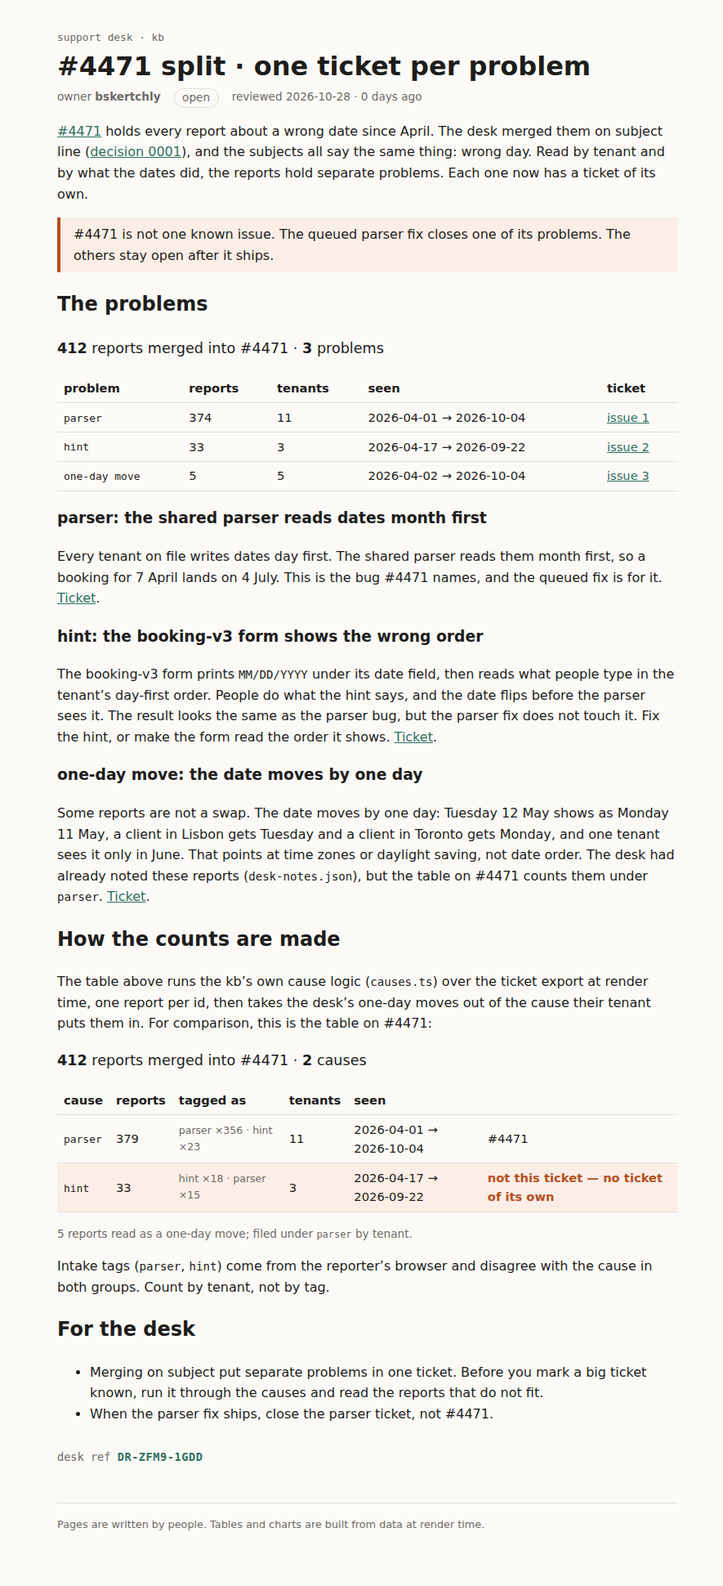
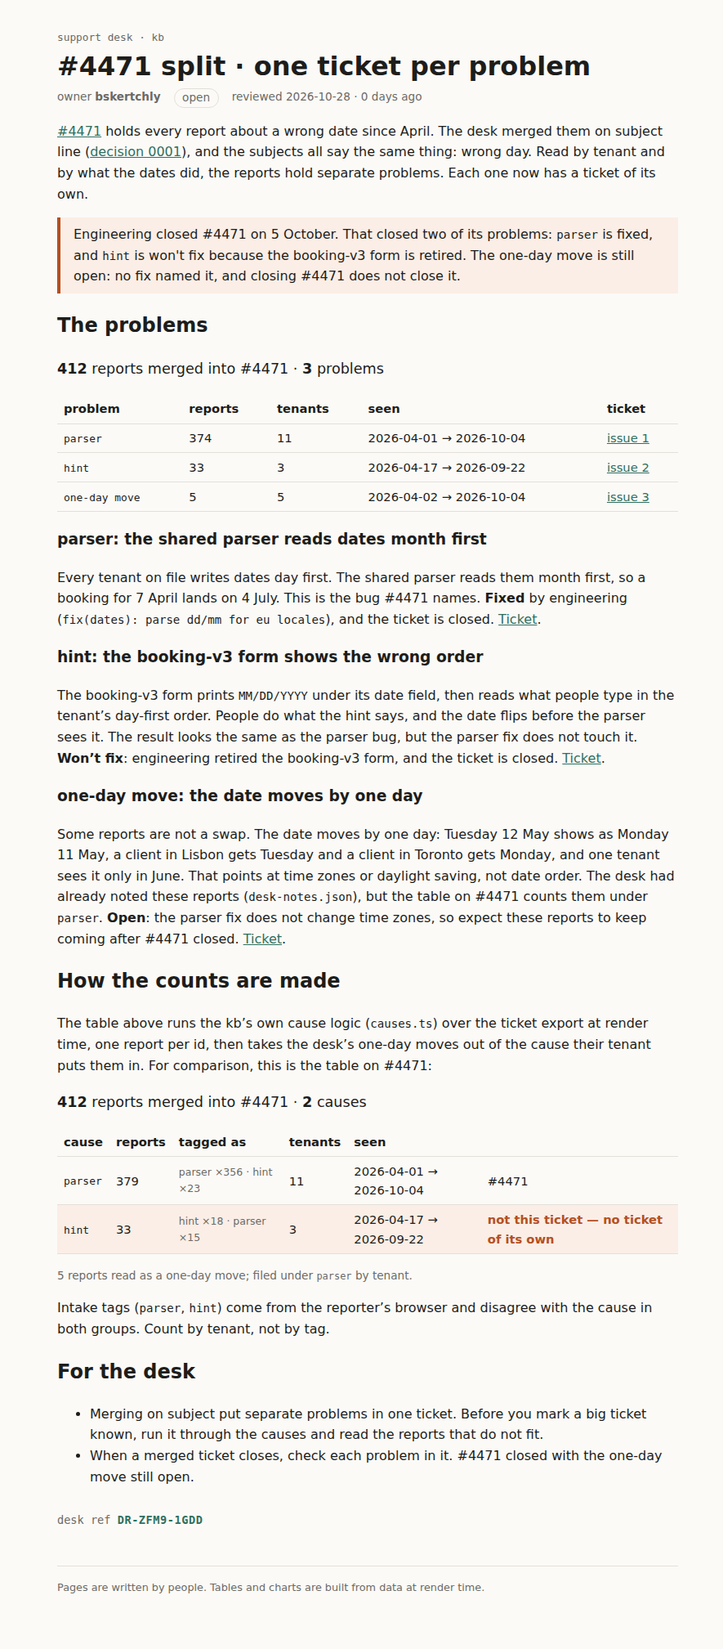
docs(kb): record engineering outcome for #4471 problems

diff --git a/rendered/site/kb/incidents/4471-split.html b/rendered/site/kb/incidents/4471-split.html
@@ -6,11 +6,11 @@
 		<link href="../../_app/immutable/chunks/B2Ul7l_u.js" rel="modulepreload">
 		<link href="../../_app/immutable/chunks/BCPXOG7W.js" rel="modulepreload">
 		<link href="../../_app/immutable/chunks/Dh1V97Jm.js" rel="modulepreload">
-		<link href="../../_app/immutable/entry/app.BBf1GEd5.js" rel="modulepreload">
+		<link href="../../_app/immutable/entry/app.DAjpkfKS.js" rel="modulepreload">
 		<link href="../../_app/immutable/nodes/0.C9KfiiPz.js" rel="modulepreload">
 		<link href="../../_app/immutable/chunks/DK3Fl9T5.js" rel="modulepreload">
-		<link href="../../_app/immutable/nodes/5.CE2hy9mU.js" rel="modulepreload">
-		<link href="../../_app/immutable/chunks/DABsAX7m.js" rel="modulepreload">
+		<link href="../../_app/immutable/nodes/5.CG27A_ap.js" rel="modulepreload">
+		<link href="../../_app/immutable/chunks/C3MLfSKG.js" rel="modulepreload">
 		<link href="../../_app/immutable/chunks/BTPwLomz.js" rel="modulepreload">
 		<link href="../../_app/immutable/chunks/CVzl_KNK.js" rel="modulepreload">
 		<link href="../../_app/immutable/chunks/BIy4WKJS.js" rel="modulepreload">
@@ -22,32 +22,34 @@
   <body><!--[--><!--[--><!--[0--><!--[--><!--[--><!--[-1--><!--[--><div class="kb svelte-e2jw2j"><header><a class="crumb svelte-e2jw2j" href="/kb">support desk · kb</a> <h1 class="svelte-e2jw2j">#4471 split · one ticket per problem</h1> <p class="meta svelte-e2jw2j"><span>owner <b>bskertchly</b></span> <span class="status open svelte-e2jw2j">open</span> <span class="svelte-e2jw2j">reviewed 2026-10-28 · 0 days ago</span></p></header> <!--[-1--><!--]--> <main><p><a href="/kb/incidents/4471">#4471</a> holds every report about a wrong date since April. The desk merged them on
 subject line (<a href="/kb/decisions/0001-dedupe-by-subject">decision 0001</a>), and the subjects all say the
 same thing: wrong day. Read by tenant and by what the dates did, the reports hold separate problems.
-Each one now has a ticket of its own.</p> <aside class="warn svelte-17bri61"><!---->#4471 is not one known issue. The queued parser fix closes one of its problems. The others
-stay open after it ships.<!----></aside><!----> <h2>The problems</h2> <p class="sum svelte-1op6c6"><strong>412</strong> reports merged into #4471 · <strong>3</strong> problems</p> <table><thead><tr><th>problem</th><th>reports</th><th>tenants</th><th>seen</th><th>ticket</th></tr></thead><tbody><!--[--><tr><td><code>parser</code></td><td>374</td><td>11</td><td>2026-04-01 → 2026-10-04</td><td><!--[0--><a href="https://github.com/bskertchly/mega-s01e03-what-it-shows/issues/1">issue 1</a><!--]--></td></tr><tr><td><code>hint</code></td><td>33</td><td>3</td><td>2026-04-17 → 2026-09-22</td><td><!--[0--><a href="https://github.com/bskertchly/mega-s01e03-what-it-shows/issues/2">issue 2</a><!--]--></td></tr><tr><td><code>one-day move</code></td><td>5</td><td>5</td><td>2026-04-02 → 2026-10-04</td><td><!--[0--><a href="https://github.com/bskertchly/mega-s01e03-what-it-shows/issues/3">issue 3</a><!--]--></td></tr><!--]--></tbody></table><!----> <h3>parser: the shared parser reads dates month first</h3> <p>Every tenant on file writes dates day first. The shared parser reads them month first, so a booking
-for 7 April lands on 4 July. This is the bug #4471 names, and the queued fix is for it. <a href="https://github.com/bskertchly/mega-s01e03-what-it-shows/issues/1" rel="nofollow">Ticket</a>.</p> <h3>hint: the booking-v3 form shows the wrong order</h3> <p>The booking-v3 form prints <code>MM/DD/YYYY</code> under its date field, then reads what people type in the
+Each one now has a ticket of its own.</p> <aside class="warn svelte-17bri61"><!---->Engineering closed #4471 on 5 October. That closed two of its problems: <code>parser</code> is fixed, and <code>hint</code> is won't fix because the booking-v3 form is retired. The one-day move is still open: no fix
+named it, and closing #4471 does not close it.<!----></aside><!----> <h2>The problems</h2> <p class="sum svelte-1op6c6"><strong>412</strong> reports merged into #4471 · <strong>3</strong> problems</p> <table><thead><tr><th>problem</th><th>reports</th><th>tenants</th><th>seen</th><th>ticket</th></tr></thead><tbody><!--[--><tr><td><code>parser</code></td><td>374</td><td>11</td><td>2026-04-01 → 2026-10-04</td><td><!--[0--><a href="https://github.com/bskertchly/mega-s01e03-what-it-shows/issues/1">issue 1</a><!--]--></td></tr><tr><td><code>hint</code></td><td>33</td><td>3</td><td>2026-04-17 → 2026-09-22</td><td><!--[0--><a href="https://github.com/bskertchly/mega-s01e03-what-it-shows/issues/2">issue 2</a><!--]--></td></tr><tr><td><code>one-day move</code></td><td>5</td><td>5</td><td>2026-04-02 → 2026-10-04</td><td><!--[0--><a href="https://github.com/bskertchly/mega-s01e03-what-it-shows/issues/3">issue 3</a><!--]--></td></tr><!--]--></tbody></table><!----> <h3>parser: the shared parser reads dates month first</h3> <p>Every tenant on file writes dates day first. The shared parser reads them month first, so a booking
+for 7 April lands on 4 July. This is the bug #4471 names. <strong>Fixed</strong> by engineering
+(<code>fix(dates): parse dd/mm for eu locales</code>), and the ticket is closed. <a href="https://github.com/bskertchly/mega-s01e03-what-it-shows/issues/1" rel="nofollow">Ticket</a>.</p> <h3>hint: the booking-v3 form shows the wrong order</h3> <p>The booking-v3 form prints <code>MM/DD/YYYY</code> under its date field, then reads what people type in the
 tenant’s day-first order. People do what the hint says, and the date flips before the parser sees
-it. The result looks the same as the parser bug, but the parser fix does not touch it. Fix the hint,
-or make the form read the order it shows. <a href="https://github.com/bskertchly/mega-s01e03-what-it-shows/issues/2" rel="nofollow">Ticket</a>.</p> <h3>one-day move: the date moves by one day</h3> <p>Some reports are not a swap. The date moves by one day: Tuesday 12 May shows as Monday 11 May, a
+it. The result looks the same as the parser bug, but the parser fix does not touch it. <strong>Won’t fix</strong>:
+engineering retired the booking-v3 form, and the ticket is closed. <a href="https://github.com/bskertchly/mega-s01e03-what-it-shows/issues/2" rel="nofollow">Ticket</a>.</p> <h3>one-day move: the date moves by one day</h3> <p>Some reports are not a swap. The date moves by one day: Tuesday 12 May shows as Monday 11 May, a
 client in Lisbon gets Tuesday and a client in Toronto gets Monday, and one tenant sees it only in
 June. That points at time zones or daylight saving, not date order. The desk had already noted these
-reports (<code>desk-notes.json</code>), but the table on #4471 counts them under <code>parser</code>. <a href="https://github.com/bskertchly/mega-s01e03-what-it-shows/issues/3" rel="nofollow">Ticket</a>.</p> <h2>How the counts are made</h2> <p>The table above runs the kb’s own cause logic (<code>causes.ts</code>) over the ticket export at render time,
+reports (<code>desk-notes.json</code>), but the table on #4471 counts them under <code>parser</code>. <strong>Open</strong>: the parser fix does not
+change time zones, so expect these reports to keep coming after #4471 closed. <a href="https://github.com/bskertchly/mega-s01e03-what-it-shows/issues/3" rel="nofollow">Ticket</a>.</p> <h2>How the counts are made</h2> <p>The table above runs the kb’s own cause logic (<code>causes.ts</code>) over the ticket export at render time,
 one report per id, then takes the desk’s one-day moves out of the cause their tenant puts them in.
 For comparison, this is the table on #4471:</p> <p class="sum svelte-12oyimm"><strong>412</strong> reports merged into #4471 · <strong>2</strong> causes</p> <table><thead><tr><th>cause</th><th>reports</th><th>tagged as</th><th>tenants</th><th>seen</th><th></th></tr></thead><tbody><!--[--><tr class="svelte-12oyimm"><td class="svelte-12oyimm"><code>parser</code></td><td class="svelte-12oyimm">379</td><td class="tags svelte-12oyimm">parser ×356 · hint ×23</td><td class="svelte-12oyimm">11</td><td class="svelte-12oyimm">2026-04-01 → 2026-10-04</td><td class="svelte-12oyimm">#4471</td></tr><tr class="svelte-12oyimm wrong"><td class="svelte-12oyimm"><code>hint</code></td><td class="svelte-12oyimm">33</td><td class="tags svelte-12oyimm">hint ×18 · parser ×15</td><td class="svelte-12oyimm">3</td><td class="svelte-12oyimm">2026-04-17 → 2026-09-22</td><td class="svelte-12oyimm">not this ticket — no ticket of its own</td></tr><!--]--></tbody></table> <!--[--><!--[0--><p class="note svelte-12oyimm">5 reports read as a one-day move; filed under <code>parser</code> by tenant.</p><!--]--><!--[-1--><!--]--><!--]--><!----> <p>Intake tags (<code>parser</code>, <code>hint</code>) come from the reporter’s browser and disagree with the cause in
 both groups. Count by tenant, not by tag.</p> <h2>For the desk</h2> <ul><li>Merging on subject put separate problems in one ticket. Before you mark a big ticket known, run it
-through the causes and read the reports that do not fit.</li> <li>When the parser fix ships, close the parser ticket, not #4471.</li></ul> <!--[0--><p class="stamp svelte-1280m42">desk ref <b class="svelte-1280m42">DR-ZFM9-1GDD</b></p><!--]--><!----><!----></main> <footer class="svelte-e2jw2j">Pages are written by people. Tables and charts are built from data at render time.</footer></div><!--]--><!--]--><!--]--><!----><!--]--><!--]--><!--]--><!----> <!--[-1--><!--]--><!--]-->
+through the causes and read the reports that do not fit.</li> <li>When a merged ticket closes, check each problem in it. #4471 closed with the one-day move still open.</li></ul> <!--[0--><p class="stamp svelte-1280m42">desk ref <b class="svelte-1280m42">DR-ZFM9-1GDD</b></p><!--]--><!----><!----></main> <footer class="svelte-e2jw2j">Pages are written by people. Tables and charts are built from data at render time.</footer></div><!--]--><!--]--><!--]--><!----><!--]--><!--]--><!--]--><!----> <!--[-1--><!--]--><!--]-->
 			
 			<script>
 				{
-					__sveltekit_59srki = {
+					__sveltekit_177imj5 = {
 						base: new URL("../..", location).pathname.slice(0, -1),
-						version: "1793227052920"
+						version: "1793227353569"
 					};
 
 					const element = document.currentScript.parentElement;
 
 					import("../../_app/immutable/entry/start.CH5w6lId.js").then(async (kit) => {
-						kit.init(__sveltekit_59srki);
-						const app = await import("../../_app/immutable/entry/app.BBf1GEd5.js");
+						kit.init(__sveltekit_177imj5);
+						const app = await import("../../_app/immutable/entry/app.DAjpkfKS.js");
 						kit.start(app, element, {
 							node_ids: [0, 5],
 							data: [null,null],

diff --git a/rendered/site/_app/immutable/chunks/C3MLfSKG.js b/rendered/site/_app/immutable/chunks/C3MLfSKG.js
@@ -1,0 +1,18 @@
+import{t as e}from"./DK3Fl9T5.js";import{E as t,F as n,H as r,I as i,K as a,L as o,N as s,O as c,R as l,S as u,T as d,U as f,W as p,_ as m,c as h,h as g,k as _,q as v,r as y,t as b,w as x}from"./BCPXOG7W.js";import{t as S}from"./BTPwLomz.js";import{n as C,r as w,t as T}from"./CVzl_KNK.js";import{a as E,l as D,r as O,t as k}from"./BIy4WKJS.js";var A=t(`<a> </a>`),j=t(`<tr><td><code> </code></td><td> </td><td> </td><td> </td><td><!></td></tr>`),M=t(`<p class="sum svelte-1op6c6"><strong> </strong> <strong> </strong> problems</p> <table><thead><tr><th>problem</th><th>reports</th><th>tenants</th><th>seen</th><th>ticket</th></tr></thead><tbody></tbody></table>`,1);function N(e,t){p(t,!0);let d=r(()=>D(w).filter(e=>e.mergedInto===t.ticket)),y=e=>C.oneDayMove.includes(e.id),b=r(()=>[...E(_(d).filter(e=>!y(e)),O).map(e=>({problem:e.cause,reports:e.reports})),{problem:`one-day move`,reports:_(d).filter(y)}].filter(e=>e.reports.length).map(e=>{let t=e.reports.map(e=>e.receivedAt.slice(0,10)).sort();return{...e,tenants:new Set(e.reports.map(e=>e.tenant)).size,seen:`${t[0]} → ${t[t.length-1]}`}}));var S=M(),T=i(S),k=n(T),N=o(k,!0),P=l(k),F=l(P),I=o(F,!0);a(),v(T);var L=l(T,2),R=l(n(L));g(R,21,()=>_(b),e=>e.problem,(e,r)=>{var i=j(),a=n(i),d=n(a),f=o(d,!0);v(a);var p=l(a),g=o(p,!0),y=l(p),b=o(y,!0),S=l(y),C=o(S,!0),w=l(S),T=n(w),E=e=>{var n=A(),i=o(n,!0);s(e=>{h(n,`href`,t.tickets[_(r).problem]),u(i,e)},[()=>t.tickets[_(r).problem].replace(/.*\/issues\//,`issue `)]),x(e,n)},D=e=>{var t=c(`none yet`);x(e,t)};m(T,e=>{t.tickets[_(r).problem]?e(E):e(D,-1)}),v(w),v(i),s(()=>{u(f,_(r).problem),u(g,_(r).reports.length),u(b,_(r).tenants),u(C,_(r).seen)}),x(e,i)}),v(R),v(L),s(()=>{u(N,_(d).length),u(P,` reports merged into #${t.ticket??``} · `),u(I,_(b).length)}),x(e,S),f()}var P=`0123456789ABCDEFGHJKMNPQRSTVWXYZ`;function F(e,t){let n=t>>>0;for(let t=0;t<e.length;t++)n^=e.charCodeAt(t),n=Math.imul(n,16777619)>>>0;return n}function I(e){let t=e.trim(),n=F(t,2166136261),r=F(t,2654435769),i=BigInt(n)<<8n|BigInt(r&255),a=``;for(let e=0;e<8;e++)a=P[Number(i&31n)]+a,i>>=5n;return`DR-${a.slice(0,4)}-${a.slice(4)}`}var L=t(`<p class="stamp svelte-1280m42">desk ref <b class="svelte-1280m42"> </b></p>`),R=t(`<p class="stamp missing svelte-1280m42">no desk ref: this page isn't signed (no <code>signature</code> in its frontmatter)</p>`);function z(e,t){p(t,!0);let a=r(()=>t.signature?I(t.signature):null);var c=d(),h=i(c),g=e=>{var t=L(),r=l(n(t)),i=o(r,!0);v(t),s(()=>u(i,_(a))),x(e,t)},y=e=>{var t=R();x(e,t)};m(h,e=>{_(a)?e(g):e(y,-1)}),x(e,c),f()}var B=e({default:()=>X,metadata:()=>V}),V={layout:`runbook`,title:`#4471 split · one ticket per problem`,owner:`bskertchly`,status:`open`,reviewed:`2026-10-28T00:00:00.000Z`,signature:`v1.eyJzdWIiOiIyNTM4IiwiYXVkIjoiY2hhbGxlbmdlOndoYXQtaXQtc2hvd3MiLCJpYXQiOjE3OTMyMjY2NzUsImV4cCI6MTc5MzMxMzA3NX0.T4rrA3RWJwC3wXyRxoJ6-tDpb1C0ogL_BNji3M-BYj0`},{layout:H,title:U,owner:W,status:G,reviewed:K,signature:q}=V,J=t(`Engineering closed #4471 on 5 October. That closed two of its problems: <code>parser</code> is fixed, and <code>hint</code> is won't fix because the booking-v3 form is retired. The one-day move is still open: no fix
+named it, and closing #4471 does not close it.`,1),Y=t(`<p><a href="/kb/incidents/4471">#4471</a> holds every report about a wrong date since April. The desk merged them on
+subject line (<a href="/kb/decisions/0001-dedupe-by-subject">decision 0001</a>), and the subjects all say the
+same thing: wrong day. Read by tenant and by what the dates did, the reports hold separate problems.
+Each one now has a ticket of its own.</p> <!> <h2>The problems</h2> <!> <h3>parser: the shared parser reads dates month first</h3> <p>Every tenant on file writes dates day first. The shared parser reads them month first, so a booking
+for 7 April lands on 4 July. This is the bug #4471 names. <strong>Fixed</strong> by engineering
+(<code>fix(dates): parse dd/mm for eu locales</code>), and the ticket is closed. <a href="https://github.com/bskertchly/mega-s01e03-what-it-shows/issues/1" rel="nofollow">Ticket</a>.</p> <h3>hint: the booking-v3 form shows the wrong order</h3> <p>The booking-v3 form prints <code>MM/DD/YYYY</code> under its date field, then reads what people type in the
+tenant’s day-first order. People do what the hint says, and the date flips before the parser sees
+it. The result looks the same as the parser bug, but the parser fix does not touch it. <strong>Won’t fix</strong>:
+engineering retired the booking-v3 form, and the ticket is closed. <a href="https://github.com/bskertchly/mega-s01e03-what-it-shows/issues/2" rel="nofollow">Ticket</a>.</p> <h3>one-day move: the date moves by one day</h3> <p>Some reports are not a swap. The date moves by one day: Tuesday 12 May shows as Monday 11 May, a
+client in Lisbon gets Tuesday and a client in Toronto gets Monday, and one tenant sees it only in
+June. That points at time zones or daylight saving, not date order. The desk had already noted these
+reports (<code>desk-notes.json</code>), but the table on #4471 counts them under <code>parser</code>. <strong>Open</strong>: the parser fix does not
+change time zones, so expect these reports to keep coming after #4471 closed. <a href="https://github.com/bskertchly/mega-s01e03-what-it-shows/issues/3" rel="nofollow">Ticket</a>.</p> <h2>How the counts are made</h2> <p>The table above runs the kb’s own cause logic (<code>causes.ts</code>) over the ticket export at render time,
+one report per id, then takes the desk’s one-day moves out of the cause their tenant puts them in.
+For comparison, this is the table on #4471:</p> <!> <p>Intake tags (<code>parser</code>, <code>hint</code>) come from the reporter’s browser and disagree with the cause in
+both groups. Count by tenant, not by tag.</p> <h2>For the desk</h2> <ul><li>Merging on subject put separate problems in one ticket. Before you mark a big ticket known, run it
+through the causes and read the reports that do not fit.</li> <li>When a merged ticket closes, check each problem in it. #4471 closed with the one-day move still open.</li></ul> <!>`,1);function X(e,t){let n=b(t,[`children`,`$$slots`,`$$events`,`$$legacy`]);S(e,y(()=>n,()=>V,{children:(e,t)=>{var n=Y(),r=l(i(n),2);k(r,{kind:`warn`,children:(e,t)=>{a();var n=J();a(4),x(e,n)},$$slots:{default:!0}});var o=l(r,4);N(o,{ticket:4471,tickets:{parser:`https://github.com/bskertchly/mega-s01e03-what-it-shows/issues/1`,hint:`https://github.com/bskertchly/mega-s01e03-what-it-shows/issues/2`,"one-day move":`https://github.com/bskertchly/mega-s01e03-what-it-shows/issues/3`}});var s=l(o,18);T(s,{ticket:4471}),z(l(s,8),{get signature(){return q}}),x(e,n)},$$slots:{default:!0}}))}export{X as n,B as t};

diff --git a/rendered/site/_app/immutable/nodes/2.CzbQZmu5.js b/rendered/site/_app/immutable/nodes/2.CzbQZmu5.js
@@ -1,0 +1,2 @@
+import{E as e,F as t,I as n,K as r,L as i,N as a,R as o,S as s,U as c,W as l,c as u,d,h as f,i as p,k as m,q as h,r as g,t as _,w as v}from"../chunks/BCPXOG7W.js";import{n as y,r as b,t as x}from"../chunks/BTPwLomz.js";import{t as S}from"../chunks/YX22L_Ud.js";import{t as C}from"../chunks/DQEJtU6k.js";import{t as w}from"../chunks/C3MLfSKG.js";import{t as T}from"../chunks/BGqJVSDw.js";var E=e(`<tr><td><a> </a></td><td> </td><td> </td><td> </td></tr>`),D=e(`<table><thead><tr><th>page</th><th>owner</th><th>status</th><th>reviewed</th></tr></thead><tbody></tbody></table>`);function O(e,n){l(n,!1);let r=Object.entries(Object.assign({"/src/routes/kb/decisions/0001-dedupe-by-subject/+page.svx":S,"/src/routes/kb/incidents/4471/+page.svx":C,"/src/routes/kb/incidents/4471-split/+page.svx":w,"/src/routes/kb/triage/dedupe/+page.svx":T})).map(([e,t])=>({href:e.replace(`/src/routes`,``).replace(`/+page.svx`,``),...t.metadata})).sort((e,t)=>e.href.localeCompare(t.href));p();var g=D(),_=o(t(g));f(_,5,()=>r,e=>e.href,(e,n)=>{var r=E(),c=t(r),l=t(c),f=i(l,!0);h(c);var p=o(c),g=i(p,!0),_=o(p),x=i(_,!0),S=o(_);let C;var w=i(S,!0);h(r),a((e,t)=>{u(l,`href`,m(n).href),s(f,m(n).title),s(g,m(n).owner),s(x,m(n).status),C=d(S,1,`svelte-tbc1ha`,null,C,{stale:e}),s(w,t)},[()=>y(m(n).reviewed)>180,()=>b(m(n).reviewed)]),v(e,r)}),h(_),h(g),v(e,g),c()}var k={layout:`runbook`,title:`Support knowledge base`,owner:`support desk`,status:`living`,reviewed:`2026-09-28T00:00:00.000Z`},{layout:A,title:j,owner:M,status:N,reviewed:P}=k,F=e(`<p>What the support desk knows, kept next to the code that knows it. One desk, every product: <code>sched-prod</code> (calendar invites for about 300k people) and the rest. When something breaks, the reports land here first.</p> <p>Start with <a href="/kb/triage/dedupe">triage</a> if you are new on the desk.</p> <h2>Pages</h2> <!> <h2>Writing a page</h2> <p>Keep the words here and the logic in <code>src/lib</code>. A number that can be computed should be
+computed by a component, not typed into a paragraph.</p>`,1);function I(e,t){let i=_(t,[`children`,`$$slots`,`$$events`,`$$legacy`]);x(e,g(()=>i,()=>k,{children:(e,t)=>{var i=F();O(o(n(i),6),{}),r(4),v(e,i)},$$slots:{default:!0}}))}export{I as component};

diff --git a/rendered/site/kb.html b/rendered/site/kb.html
@@ -6,16 +6,16 @@
 		<link href="./_app/immutable/chunks/B2Ul7l_u.js" rel="modulepreload">
 		<link href="./_app/immutable/chunks/BCPXOG7W.js" rel="modulepreload">
 		<link href="./_app/immutable/chunks/Dh1V97Jm.js" rel="modulepreload">
-		<link href="./_app/immutable/entry/app.BBf1GEd5.js" rel="modulepreload">
+		<link href="./_app/immutable/entry/app.DAjpkfKS.js" rel="modulepreload">
 		<link href="./_app/immutable/nodes/0.C9KfiiPz.js" rel="modulepreload">
 		<link href="./_app/immutable/chunks/DK3Fl9T5.js" rel="modulepreload">
-		<link href="./_app/immutable/nodes/2.yAOiivUN.js" rel="modulepreload">
+		<link href="./_app/immutable/nodes/2.CzbQZmu5.js" rel="modulepreload">
 		<link href="./_app/immutable/chunks/BTPwLomz.js" rel="modulepreload">
 		<link href="./_app/immutable/chunks/YX22L_Ud.js" rel="modulepreload">
 		<link href="./_app/immutable/chunks/DQEJtU6k.js" rel="modulepreload">
 		<link href="./_app/immutable/chunks/CVzl_KNK.js" rel="modulepreload">
 		<link href="./_app/immutable/chunks/BIy4WKJS.js" rel="modulepreload">
-		<link href="./_app/immutable/chunks/DABsAX7m.js" rel="modulepreload">
+		<link href="./_app/immutable/chunks/C3MLfSKG.js" rel="modulepreload">
 		<link href="./_app/immutable/chunks/BGqJVSDw.js" rel="modulepreload">
 		<!--e2jw2j--><!----><title>Support knowledge base · support kb</title>
 		<link href="./_app/immutable/assets/runbook.COyw0cbZ.css" rel="stylesheet">
@@ -30,16 +30,16 @@ computed by a component, not typed into a paragraph.</p><!----></main> <footer c
 			
 			<script>
 				{
-					__sveltekit_59srki = {
+					__sveltekit_177imj5 = {
 						base: new URL(".", location).pathname.slice(0, -1),
-						version: "1793227052920"
+						version: "1793227353569"
 					};
 
 					const element = document.currentScript.parentElement;
 
 					import("./_app/immutable/entry/start.CH5w6lId.js").then(async (kit) => {
-						kit.init(__sveltekit_59srki);
-						const app = await import("./_app/immutable/entry/app.BBf1GEd5.js");
+						kit.init(__sveltekit_177imj5);
+						const app = await import("./_app/immutable/entry/app.DAjpkfKS.js");
 						kit.start(app, element, {
 							node_ids: [0, 2],
 							data: [null,null],

diff --git a/rendered/site/_app/immutable/entry/app.DAjpkfKS.js b/rendered/site/_app/immutable/entry/app.DAjpkfKS.js
@@ -1,0 +1,2 @@
+const __vite__mapDeps=(i,m=__vite__mapDeps,d=(m.f||(m.f=["../nodes/0.C9KfiiPz.js","../chunks/DK3Fl9T5.js","../chunks/BCPXOG7W.js","../nodes/1.mOwa9YdW.js","../chunks/Dh1V97Jm.js","./payload.DSmR2FwN.js","../nodes/2.CzbQZmu5.js","../chunks/BTPwLomz.js","../assets/runbook.COyw0cbZ.css","../chunks/YX22L_Ud.js","../chunks/DQEJtU6k.js","../chunks/CVzl_KNK.js","../chunks/BIy4WKJS.js","../assets/Callout.AbLv9dM_.css","../assets/CauseTable.DuKfINX_.css","../assets/_page.BwRNheVv.css","../chunks/C3MLfSKG.js","../assets/_page.CgouBqEL.css","../chunks/BGqJVSDw.js","../assets/_page.DO6Yid7X.css","../assets/2.Bt0MwIZg.css","../nodes/3.DRxPfvn3.js","../nodes/4.Lxj3M29p.js","../nodes/5.CG27A_ap.js","../nodes/6.sFtxrtyV.js"])))=>i.map(i=>d[i]);
+import{t as e}from"../chunks/CRzLMJPS.js";var t={},n=[()=>e(()=>import(`../nodes/0.C9KfiiPz.js`),__vite__mapDeps([0,1,2]),import.meta.url),()=>e(()=>import(`../nodes/1.mOwa9YdW.js`),__vite__mapDeps([3,2,4,5]),import.meta.url),()=>e(()=>import(`../nodes/2.CzbQZmu5.js`),__vite__mapDeps([6,2,7,8,9,1,10,11,12,13,14,15,16,17,18,19,20]),import.meta.url),()=>e(()=>import(`../nodes/3.DRxPfvn3.js`),__vite__mapDeps([21,9,1,2,7,8]),import.meta.url),()=>e(()=>import(`../nodes/4.Lxj3M29p.js`),__vite__mapDeps([22,10,1,2,7,8,11,12,13,14,15]),import.meta.url),()=>e(()=>import(`../nodes/5.CG27A_ap.js`),__vite__mapDeps([23,16,1,2,7,8,11,12,13,14,17]),import.meta.url),()=>e(()=>import(`../nodes/6.sFtxrtyV.js`),__vite__mapDeps([24,18,1,2,7,8,12,13,19]),import.meta.url)],r=[],i={"/kb":[2],"/kb/decisions/0001-dedupe-by-subject":[3],"/kb/incidents/4471-split":[5],"/kb/incidents/4471":[4],"/kb/triage/dedupe":[6]},a={handleError:(({kind:e,error:t})=>{e===`unknown`&&console.error(t)}),reroute:(()=>{}),transport:{}},o=Object.fromEntries(Object.entries(a.transport).map(([e,t])=>[e,t.decode])),s=Object.fromEntries(Object.entries(a.transport).map(([e,t])=>[e,t.encode])),c=!1,l=(e,t)=>o[e](t),u=()=>e(()=>import(`../chunks/Bjy-W4x2.js`).then(e=>e.default),[],import.meta.url);export{l as decode,o as decoders,i as dictionary,s as encoders,u as get_error_template,c as hash,a as hooks,t as matchers,n as nodes,r as server_loads};

diff --git a/rendered/site/kb/decisions/0001-dedupe-by-subject.html b/rendered/site/kb/decisions/0001-dedupe-by-subject.html
@@ -6,7 +6,7 @@
 		<link href="../../_app/immutable/chunks/B2Ul7l_u.js" rel="modulepreload">
 		<link href="../../_app/immutable/chunks/BCPXOG7W.js" rel="modulepreload">
 		<link href="../../_app/immutable/chunks/Dh1V97Jm.js" rel="modulepreload">
-		<link href="../../_app/immutable/entry/app.BBf1GEd5.js" rel="modulepreload">
+		<link href="../../_app/immutable/entry/app.DAjpkfKS.js" rel="modulepreload">
 		<link href="../../_app/immutable/nodes/0.C9KfiiPz.js" rel="modulepreload">
 		<link href="../../_app/immutable/chunks/DK3Fl9T5.js" rel="modulepreload">
 		<link href="../../_app/immutable/nodes/3.DRxPfvn3.js" rel="modulepreload">
@@ -21,16 +21,16 @@ engineering merges them later.</li></ul><!----></main> <footer class="svelte-e2j
 			
 			<script>
 				{
-					__sveltekit_59srki = {
+					__sveltekit_177imj5 = {
 						base: new URL("../..", location).pathname.slice(0, -1),
-						version: "1793227052920"
+						version: "1793227353569"
 					};
 
 					const element = document.currentScript.parentElement;
 
 					import("../../_app/immutable/entry/start.CH5w6lId.js").then(async (kit) => {
-						kit.init(__sveltekit_59srki);
-						const app = await import("../../_app/immutable/entry/app.BBf1GEd5.js");
+						kit.init(__sveltekit_177imj5);
+						const app = await import("../../_app/immutable/entry/app.DAjpkfKS.js");
 						kit.start(app, element, {
 							node_ids: [0, 3],
 							data: [null,null],

diff --git a/rendered/site/kb/incidents/4471.html b/rendered/site/kb/incidents/4471.html
@@ -6,7 +6,7 @@
 		<link href="../../_app/immutable/chunks/B2Ul7l_u.js" rel="modulepreload">
 		<link href="../../_app/immutable/chunks/BCPXOG7W.js" rel="modulepreload">
 		<link href="../../_app/immutable/chunks/Dh1V97Jm.js" rel="modulepreload">
-		<link href="../../_app/immutable/entry/app.BBf1GEd5.js" rel="modulepreload">
+		<link href="../../_app/immutable/entry/app.DAjpkfKS.js" rel="modulepreload">
 		<link href="../../_app/immutable/nodes/0.C9KfiiPz.js" rel="modulepreload">
 		<link href="../../_app/immutable/chunks/DK3Fl9T5.js" rel="modulepreload">
 		<link href="../../_app/immutable/nodes/4.Lxj3M29p.js" rel="modulepreload">
@@ -25,16 +25,16 @@ first. The fix is queued.</p> <aside class="note svelte-17bri61"><!---->Known. O
 			
 			<script>
 				{
-					__sveltekit_59srki = {
+					__sveltekit_177imj5 = {
 						base: new URL("../..", location).pathname.slice(0, -1),
-						version: "1793227052920"
+						version: "1793227353569"
 					};
 
 					const element = document.currentScript.parentElement;
 
 					import("../../_app/immutable/entry/start.CH5w6lId.js").then(async (kit) => {
-						kit.init(__sveltekit_59srki);
-						const app = await import("../../_app/immutable/entry/app.BBf1GEd5.js");
+						kit.init(__sveltekit_177imj5);
+						const app = await import("../../_app/immutable/entry/app.DAjpkfKS.js");
 						kit.start(app, element, {
 							node_ids: [0, 4],
 							data: [null,null],

diff --git a/rendered/site/kb/triage/dedupe.html b/rendered/site/kb/triage/dedupe.html
@@ -6,7 +6,7 @@
 		<link href="../../_app/immutable/chunks/B2Ul7l_u.js" rel="modulepreload">
 		<link href="../../_app/immutable/chunks/BCPXOG7W.js" rel="modulepreload">
 		<link href="../../_app/immutable/chunks/Dh1V97Jm.js" rel="modulepreload">
-		<link href="../../_app/immutable/entry/app.BBf1GEd5.js" rel="modulepreload">
+		<link href="../../_app/immutable/entry/app.DAjpkfKS.js" rel="modulepreload">
 		<link href="../../_app/immutable/nodes/0.C9KfiiPz.js" rel="modulepreload">
 		<link href="../../_app/immutable/chunks/DK3Fl9T5.js" rel="modulepreload">
 		<link href="../../_app/immutable/nodes/6.sFtxrtyV.js" rel="modulepreload">
@@ -24,16 +24,16 @@ anything else.<!----></aside><!----> <h2>Try it</h2> <div class="try svelte-gq0h
 			
 			<script>
 				{
-					__sveltekit_59srki = {
+					__sveltekit_177imj5 = {
 						base: new URL("../..", location).pathname.slice(0, -1),
-						version: "1793227052920"
+						version: "1793227353569"
 					};
 
 					const element = document.currentScript.parentElement;
 
 					import("../../_app/immutable/entry/start.CH5w6lId.js").then(async (kit) => {
-						kit.init(__sveltekit_59srki);
-						const app = await import("../../_app/immutable/entry/app.BBf1GEd5.js");
+						kit.init(__sveltekit_177imj5);
+						const app = await import("../../_app/immutable/entry/app.DAjpkfKS.js");
 						kit.start(app, element, {
 							node_ids: [0, 6],
 							data: [null,null],

diff --git a/rendered/site/_app/immutable/nodes/5.CG27A_ap.js b/rendered/site/_app/immutable/nodes/5.CG27A_ap.js
@@ -1,0 +1,1 @@
+export{n as component}from"../chunks/C3MLfSKG.js";
